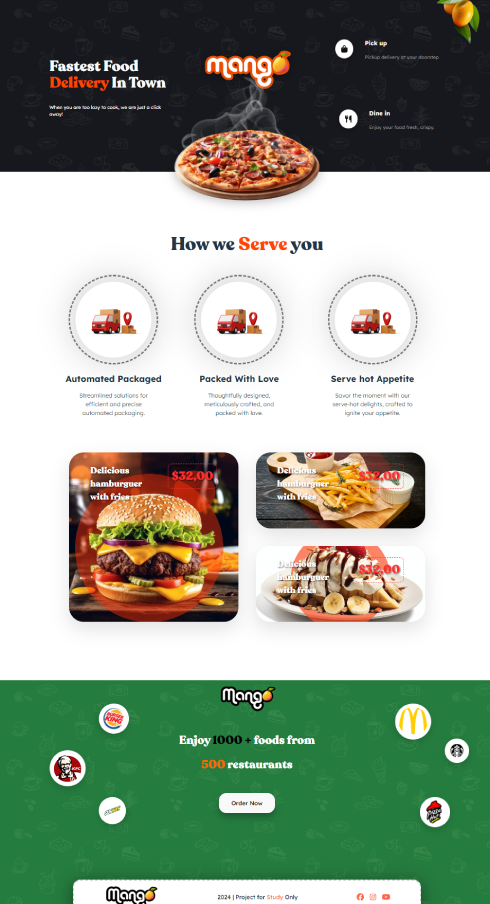
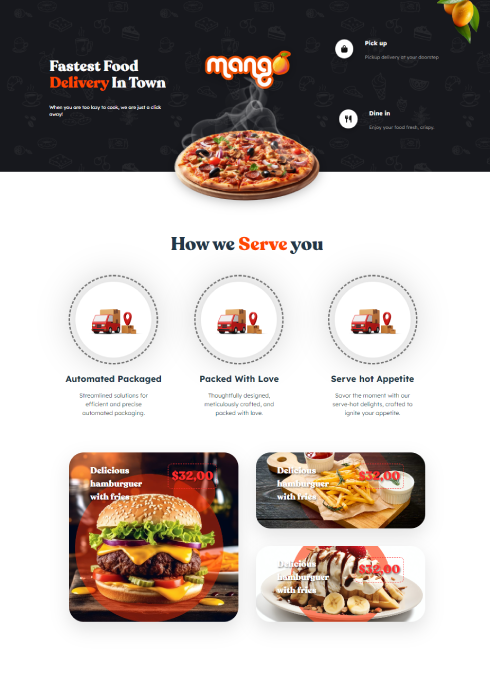
update

diff --git a/README.md b/README.md
@@ -10,5 +10,5 @@ Sleek and user-friendly interface, Mango allows customers to browse through a va
 
 <div style= "display: flex;">
   <img style= "width: 490px; height: 747px;" src="https://github.com/Dinista/Food-Ordering-Mango/blob/main/front-end/src/assets/Screenshots/HeroPage1.png" style="width: 550px;" />
-  <img style= "width: 400px; height: 738px; " src="https://github.com/Dinista/Food-Ordering-Mango/blob/main/front-end/src/assets/Screenshots/Banners1.png" style="width: 550px;" />
+  <img style= "width: 400px; height: 679px; " src="https://github.com/Dinista/Food-Ordering-Mango/blob/main/front-end/src/assets/Screenshots/Banners1.png" style="width: 550px;" />
 </div>
